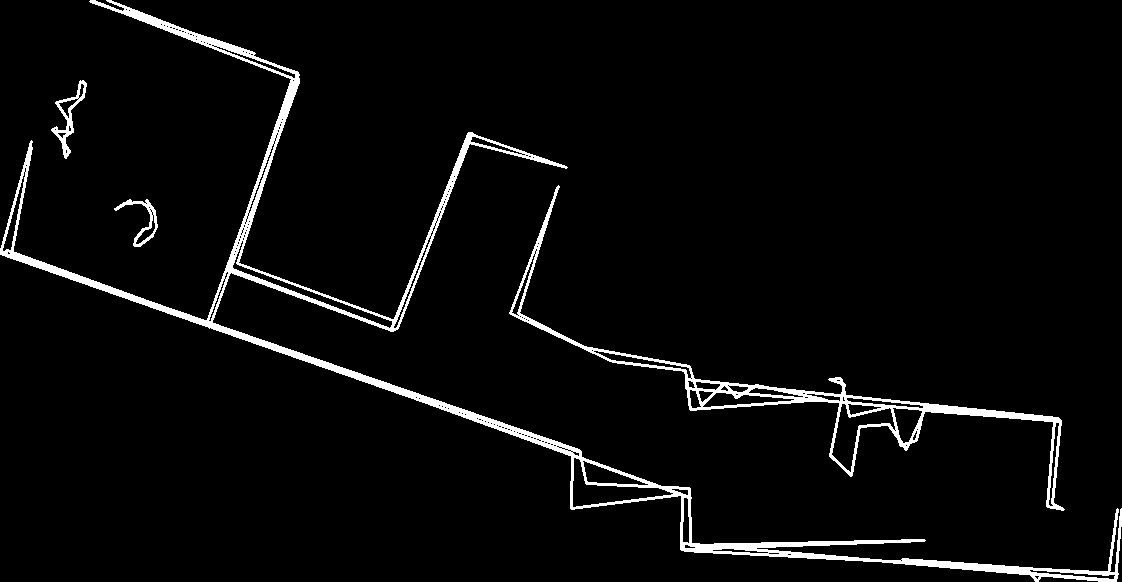
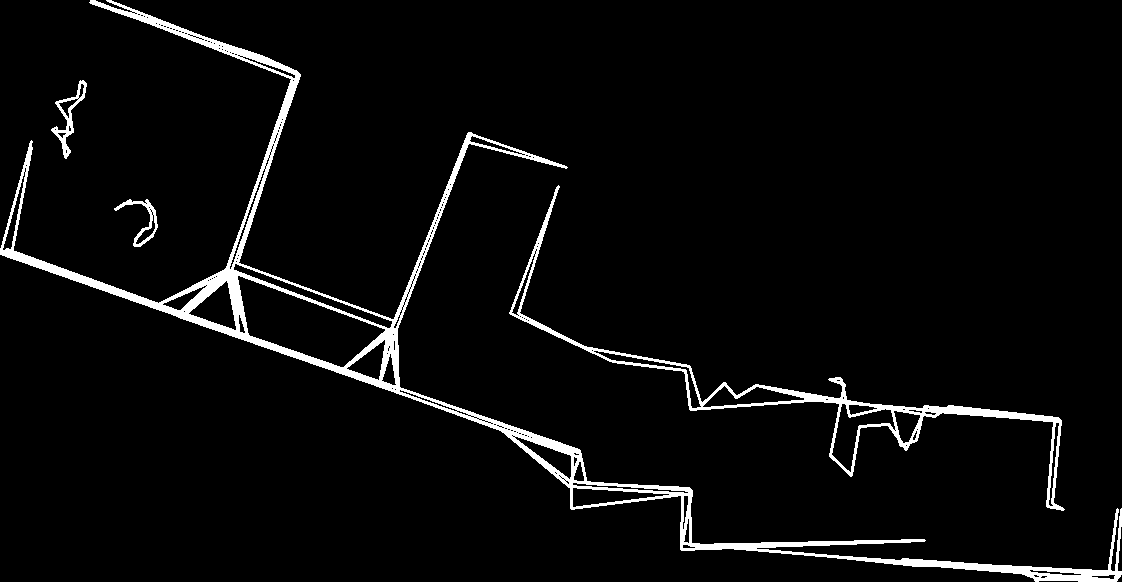
configs done

diff --git a/configs.py b/configs.py
@@ -7,30 +7,30 @@
 ROOM_CONFIGS = {
     "room1": {
         "min_area": 1000,
-        "max_distance" : 10,
+        "max_distance" : 100,
         "epsilon": 0.015,
         "extend_length": 50,
-        "min_intersection_dist":200,
+        "min_intersection_dist":10,
         "min_line_length":60,
         "max_line_gap":150
 
     },
     "room2": {
         "min_area": 200,
-        "max_distance" : 2,
+        "max_distance" : 100,
         "epsilon": 0.015,
-        "extend_length": 25,
+        "extend_length": 50,
         "min_intersection_dist":20,
         "min_line_length":10,
-        "max_line_gap":100
+        "max_line_gap":40
     },
     "room3": {
-        "min_area": 200,
-        "max_distance" : 2,
+        "min_area": 20,
+        "max_distance" : 100,
         "epsilon": 0.015,
-        "extend_length": 25,
+        "extend_length": 50,
         "min_intersection_dist":20,
         "min_line_length":10,
-        "max_line_gap":100
+        "max_line_gap":40
     },
 }
